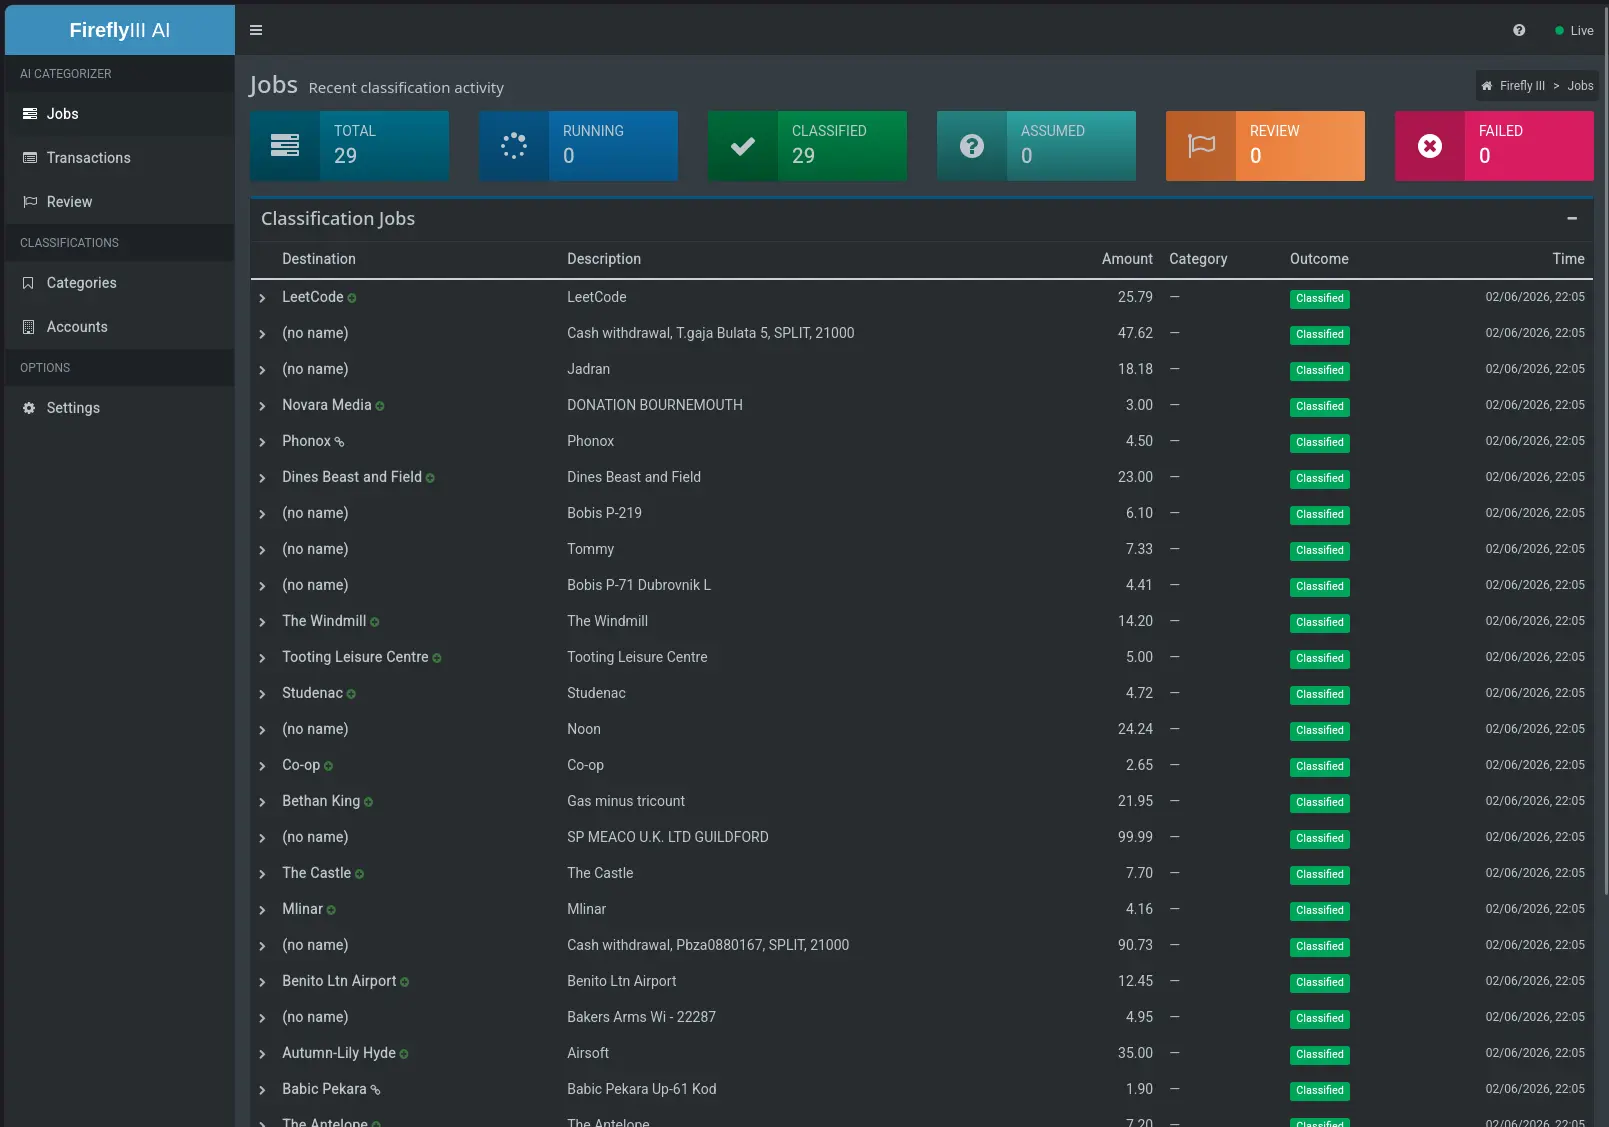
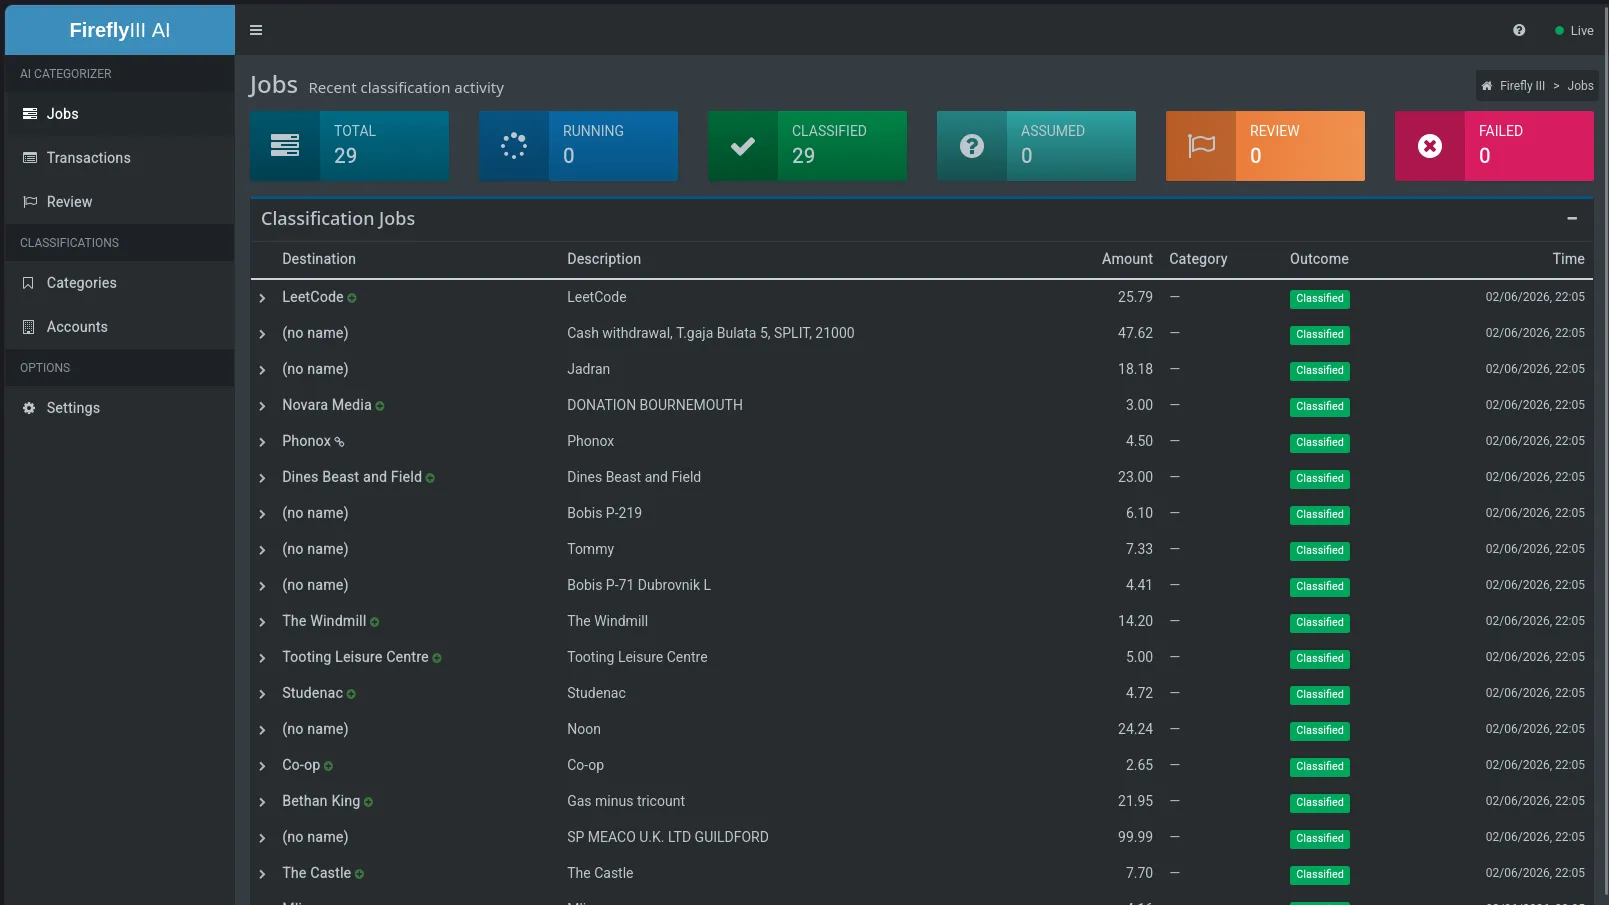
Update readme, delete pngs

diff --git a/README.md b/README.md
@@ -11,18 +11,21 @@ Automatically categorise transactions in [Firefly III](https://www.firefly-iii.o
 
 ---
 
-## Changes from the original
+## Features
 
 The original project is [bahuma20/firefly-iii-ai-categorize](https://github.com/bahuma20/firefly-iii-ai-categorize), whose author archived the project. [openaccountants/firefly-iii-ai-categorize](https://github.com/openaccountants/firefly-iii-ai-categorize) forked it and introduced the three-outcome classification model. This project is a fork of that fork, rewritten from scratch with a new UI and additional features:
 
-- **Web UI.** A built-in dashboard, that follows Firefly III design styles, provides real-time job monitoring, a transactions browser with manual re-categorisation, a category viewer, a page to review AI categorisation decisions, and a full settings page.
+- **Web UI.** A built-in dashboard, styled to match Firefly III's AdminLTE theme with light and dark mode support, provides real-time job monitoring, a transactions browser with manual re-categorisation, a category viewer, a review page for AI decisions, and a full settings page.
 - **Multiple AI providers.** Supports OpenAI (and any OpenAI-compatible endpoint such as Ollama or Azure OpenAI), Google Gemini, and DeepSeek — switchable from the settings page.
 - **Batch categorisation.** All uncategorised withdrawals can be classified in one operation from the UI or the command line.
-- **Three-outcome classification model.** Carried forward from the [openaccountants fork](https://github.com/openaccountants/firefly-iii-ai-categorize). The AI discloses its confidence level rather than silently guessing or doing nothing.
+- **Three-outcome classification model.** Carried forward from the [openaccountants fork](https://github.com/openaccountants/firefly-iii-ai-categorize). The AI discloses its confidence level (`CLASSIFIED`, `ASSUMED`, `NEEDS_REVIEW`) rather than silently guessing or doing nothing.
 - **Transaction history context.** Past categorised transactions are sent to the model as few-shot examples, improving accuracy for recurring merchants. Repeated transactions from the same vendor are categorised automatically, skipping the AI calls entirely.
-- **In-UI configuration.** All settings, including credentials, are saved through the web interface and persisted to disk across restarts.
+- **In-UI configuration.** All settings, including credentials, are saved through the web interface and persisted to disk across restarts. A custom context field lets you provide additional guidance to the AI (e.g., "I have no business expenses").
+- **Destination account matching.** When enabled, the AI matches withdrawals to existing expense accounts or creates new ones automatically, with independent confidence levels for category and destination. The Review page provides a searchable dropdown to correct or create destination accounts manually. Transactions miscategorised as "Transfers" can be converted into real asset-account transfers.
+- **Manual review workflow.** The Review tab groups unconfident classifications by merchant, with the AI's best guess pre-selected in a dropdown. Apply, skip, or correct per group — and when destination matching is on, set or create the payee alongside the category.
+- **Transaction converter.** Withdrawals the AI flags as potential transfers between your own asset accounts appear in a "Convert to Transfers" panel on the Review page. Select a destination asset account and the categorizer deletes the withdrawal and creates a proper transfer — preserving the amount, date, and description.
+- **In-app help page.** A built-in documentation tab walks through setup, features, and configuration with step-by-step instructions and screenshots, so you don't need to leave the app.
 - **Rewritten in Go.** The Node.js/Express server has been replaced with a compiled Go binary, reducing resource usage and removing the Node.js runtime dependency.
-- **Destination account matching.** When enabled, the AI can match withdrawals to existing expense accounts or create new ones automatically. The Review page provides a searchable dropdown to correct or create destination accounts manually, and transactions miscategorised as "Transfers" can be converted into real transfer transactions between asset accounts.
 
 ---
 
